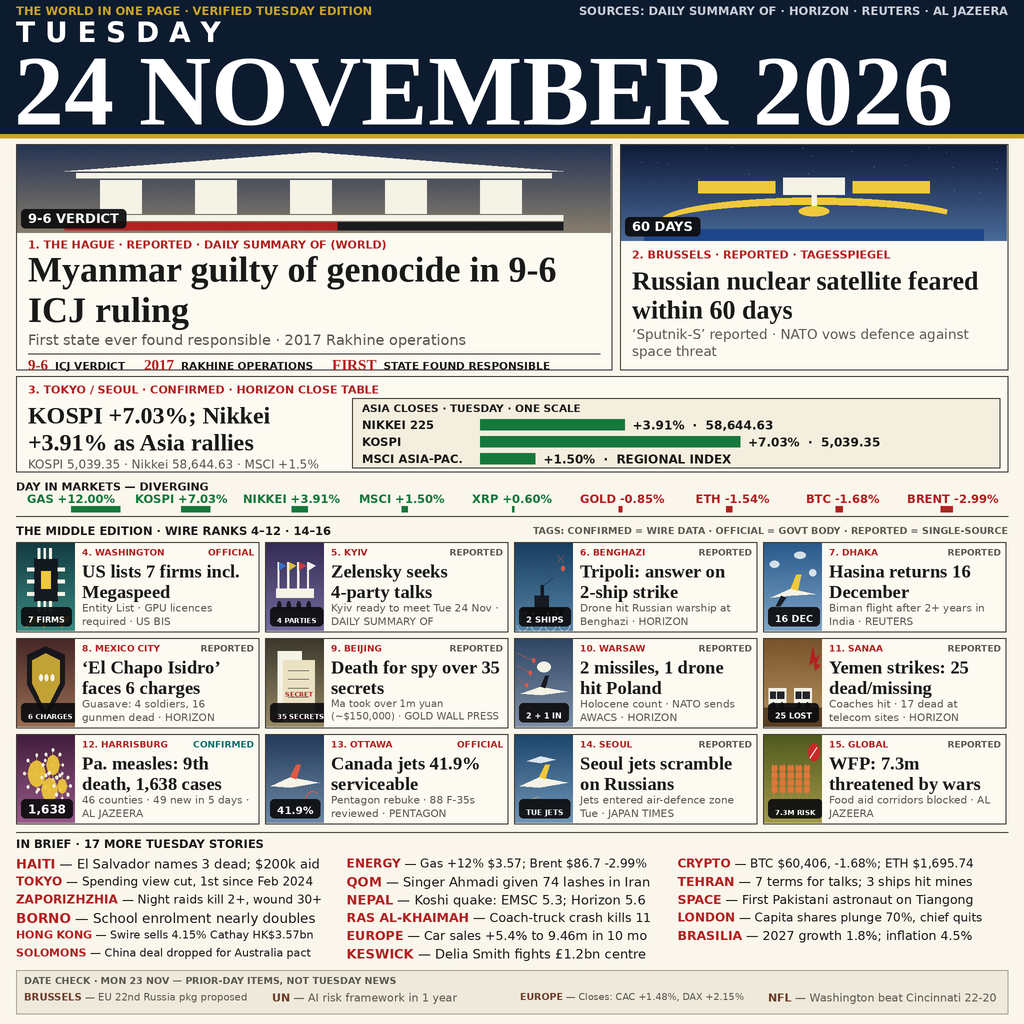
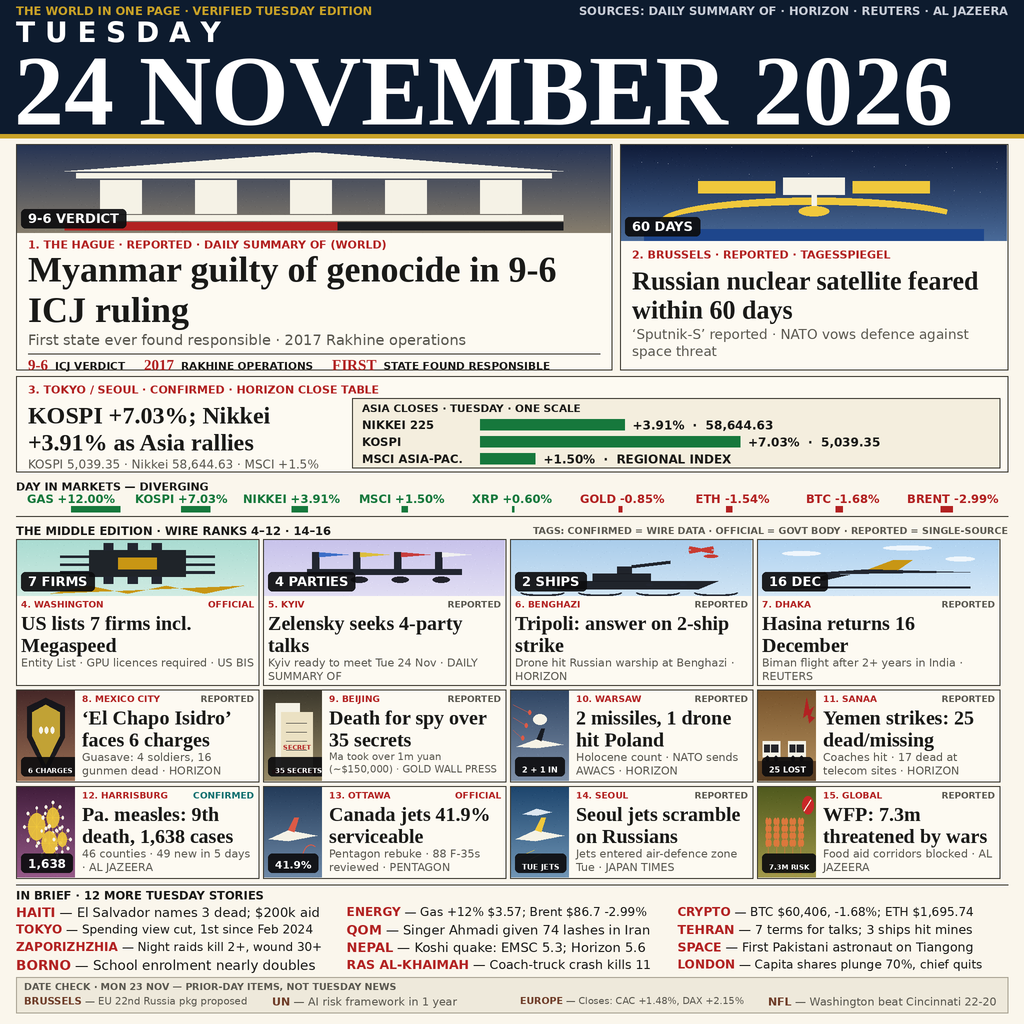
news-image-20261124 slot 2: fewer briefs, top-mounted panels on hero row

Changed region(s): [[0.0, 0.5, 1.0, 1.0]]

diff --git a/renderer.py b/renderer.py
@@ -1,8 +1,11 @@
 #!/usr/bin/env python3
-"""Fresh renderer for news-image-20261124 candidate-v2.
-Design base: Gemini-experiment composition (broadsheet masthead, single
-hero lead + stat strip, chart furniture, 3-col middle, briefs strip),
-plus a code-drawn pictorial panel on every headlined card.
+"""Renderer for news-image-20261124 candidate-slot2 (SLOT 2).
+Evolves candidate-v2's composition under Dika's fewer-briefs scope
+(25 Nov): briefs 17 -> 12, and the freed space funds the winners'
+top-mounted wide panels on the hero-adjacent compact row (cards 4-7,
+using candidate-v3's light-ground wide scene redraws) plus a 20px
+floor on every compact headline. Everything above the grid and all
+census figures are candidate-v2's, unchanged.
 All copy from data.json (census stories-final.json). Renders at 2x,
 downscales to 1024x1024."""
 import json, os, random
@@ -80,10 +83,30 @@ PALETTES = {
     "wheat":     ((80, 90, 30), (230, 205, 110), (220, 120, 60)),
 }
 
-def panel(scene, label, w, h, seed):
+# V3: light-ground palettes for the compact scenes, redrawn as wide
+# horizontal compositions (pastel ground, dark silhouettes, scene accent)
+LIGHT_PALETTES = {
+    "chip":      ((170, 220, 210), (240, 248, 240), (200, 150, 20)),
+    "table":     ((200, 195, 235), (245, 243, 250), (200, 60, 50)),
+    "ship":      ((170, 205, 235), (240, 248, 252), (200, 60, 50)),
+    "plane":     ((175, 210, 240), (242, 248, 252), (200, 150, 20)),
+    "shield":    ((235, 205, 175), (250, 242, 230), (178, 34, 34)),
+    "file":      ((228, 218, 180), (250, 246, 230), (178, 34, 34)),
+    "awacs":     ((195, 212, 232), (246, 248, 250), (200, 60, 50)),
+    "desert":    ((240, 214, 155), (252, 240, 215), (178, 34, 34)),
+    "virus":     ((232, 190, 222), (250, 240, 248), (150, 40, 130)),
+    "jet":       ((185, 208, 235), (244, 248, 252), (200, 60, 50)),
+    "jets":      ((180, 215, 242), (244, 250, 252), (200, 150, 20)),
+    "wheat":     ((215, 228, 150), (248, 246, 220), (190, 100, 30)),
+}
+
+def panel(scene, label, w, h, seed, wide=False):
     """Render one scene into its own panel-sized image (art containment)."""
     pw, ph = int(w * S), int(h * S)
-    top, mid, acc = PALETTES[scene]
+    if wide:
+        top, mid, acc = LIGHT_PALETTES[scene]
+    else:
+        top, mid, acc = PALETTES[scene]
     img = Image.new("RGB", (pw, ph), top)
     d = ImageDraw.Draw(img, "RGBA")
     # vertical gradient top -> mid blend
@@ -105,7 +128,10 @@ def panel(scene, label, w, h, seed):
     def E(x0, y0, x1, y1, fill, **kw): d.ellipse([x0*u, y0*v, x1*u, y1*v], fill=fill, **kw)
     def P(pts, fill, **kw): d.polygon([(x*u, y*v) for x, y in pts], fill=fill, **kw)
     def L(pts, fill, wd=2): d.line([(x*u, y*v) for x, y in pts], fill=fill, width=max(1, int(wd*u/2)))
-    dark = (18, 20, 26, 235); light = (245, 242, 230, 255)
+    dark = (18, 20, 26, 235)
+    # wide/light mode: scene shapes drawn in `light` become dark
+    # silhouettes on the pastel ground (winners' grammar)
+    light = (34, 38, 48, 255) if wide else (245, 242, 230, 255)
     if scene == "court":  # Peace-Palace-like columns + pediment + split verdict bar
         P([(8, 30), (50, 8), (92, 30)], light)
         R(10, 32, 90, 38, light)
@@ -228,8 +254,8 @@ def build():
     def card_box(x, y, w, h):
         d.rectangle([X(x), X(y), X(x + w), X(y + h)], fill=PAPER, outline=RULE, width=S)
 
-    def paste_panel(scene, label, x, y, w, h, seed):
-        p = panel(scene, label, w, h, seed)
+    def paste_panel(scene, label, x, y, w, h, seed, wide=False):
+        p = panel(scene, label, w, h, seed, wide=wide)
         img.paste(p, (int(X(x)), int(X(y))))
 
     # HERO (rank 1) + hero2 (rank 2)
@@ -316,51 +342,83 @@ def build():
     d.text((X(16), X(gy)), "THE MIDDLE EDITION · WIRE RANKS 4–12 · 14–16", font=F(SANS_B, 11.5), fill=INK)
     leg = "TAGS: CONFIRMED = WIRE DATA · OFFICIAL = GOVT BODY · REPORTED = SINGLE-SOURCE"
     d.text((W - X(16) - tw(d, leg, F(SANS_B, 9.5)), X(gy + 1)), leg, font=F(SANS_B, 9.5), fill=GREY)
-    gy += 18
-    cw, chh, gap = 243, 90, 6
+    gy += 15  # trim inside grid zone: header block 18 -> 15 (grid top 539)
+    cw, gap = 243, 4  # trim: row/col gap 6 -> 4
+    PANEL_H = 56  # hard floor for a top-mounted panel
+    KOFF = 17     # kicker at text-block +4, headline at +17 (v2: +5/+19)
+    # SLOT-2 GEOMETRY (Dika's fewer-briefs scope, 25 Nov): row 1
+    # (cards 4-7, hero-adjacent) gets the winners' LIGHT-ground,
+    # FULL-WIDTH TOP-MOUNTED panels (241x56, v3 wide scene redraws);
+    # rows 2-3 keep v2's side panels. ALL compact headlines sit at
+    # the hard 20px floor (v2 shipped 18.5px); every sub prints IN
+    # FULL, shrunk 11 -> 8.5 until it fits <= 2 lines. Funded by the
+    # briefs cut (17 -> 12) plus spacing trims inside this zone only;
+    # arithmetic in measure-slot2.py / measure-slot2b.py.
+    # Pass 1: measure every card at those floors (v2 fit/wrap logic).
+    plan = []
+    for idx, c in enumerate(DATA["compacts"]):
+        top = idx < 4
+        inner = (cw - 10) if top else (cw - 74)
+        pxh, linesh = fit_wrap(d, c["headline"], SERIF_B, 20, 20, inner * S, 3)
+        assert pxh >= 20 and len(linesh) <= 3, f"card {c['n']} headline breaks 20px floor"
+        report["headline_min_px"] = min(report["headline_min_px"], pxh)
+        sub_px = 11.0
+        while sub_px > 8.5:
+            slines = wrap(d, c["sub_full"], F(SANS, sub_px), inner * S)
+            if len(slines) <= 2:
+                break
+            sub_px -= 0.5
+        slines = wrap(d, c["sub_full"], F(SANS, sub_px), inner * S)
+        assert len(slines) <= 2, f"card {c['n']} sub does not fit in full in 2 lines"
+        if top:
+            need = PANEL_H + KOFF + len(linesh) * pxh * 1.1 + len(slines) * sub_px * 1.25 + 2
+        else:
+            need = KOFF + len(linesh) * pxh * 1.1 + len(slines) * sub_px * 1.25 + 4
+        plan.append((pxh, linesh, sub_px, slines, need))
+    row_h = [max(plan[r * 4 + i][4] for i in range(4)) for r in range(3)]
+    report["slot2_row_h"] = [round(v, 1) for v in row_h]
+    report["slot2_grid_h"] = sum(row_h) + 2 * gap
+    # Pass 2: draw.
+    yy_grid = gy
     for idx, c in enumerate(DATA["compacts"]):
         r, col = divmod(idx, 4)
-        x = 16 + col * (cw + gap); y = gy + r * (chh + gap)
+        x = 16 + col * (cw + gap); y = yy_grid + sum(row_h[:r]) + r * gap
+        chh = row_h[r]
+        pxh, linesh, sub_px, slines, need = plan[idx]
         card_box(x, y, cw, chh)
-        paste_panel(c["scene"], c["label"], x + 1, y + 1, 58, chh - 2, 100 + idx)
-        tx = x + 66; tw_max = cw - 74
-        # kicker/tag clearance: shrink both until a real gap (>=10px) remains
+        if idx < 4:  # top-mounted: light wide panel, text full width beneath
+            paste_panel(c["scene"], c["label"], x + 1, y + 1, cw - 2, PANEL_H, 100 + idx, wide=True)
+            tx = x + 5; tw_max = cw - 10; base = y + PANEL_H
+        else:        # side panel (v2 geometry, scenes unchanged)
+            paste_panel(c["scene"], c["label"], x + 1, y + 1, 58, chh - 2, 100 + idx)
+            tx = x + 66; tw_max = cw - 74; base = y
         kpx, tpx = 9.0, 9.0
         ktxt = f"{c['n']}. {c['place']}"
         while kpx > 7 and tw(d, ktxt, F(SANS_B, kpx)) / S + tw(d, c["tag"], F(SANS_B, tpx)) / S > tw_max - 10:
             kpx -= 0.5; tpx = max(7.5, tpx - 0.25)
         assert tw(d, ktxt, F(SANS_B, kpx)) / S + tw(d, c["tag"], F(SANS_B, tpx)) / S <= tw_max - 10, f"card {c['n']} kicker/tag collision"
-        kicker(tx, y + 5, ktxt, px=kpx)
+        kicker(tx, base + 4, ktxt, px=kpx)
         tf = F(SANS_B, tpx)
-        d.text((X(x + cw - 5) - tw(d, c["tag"], tf), X(y + 5)), c["tag"], font=tf, fill=TEAL if c["tag"]=="CONFIRMED" else (GREY if c["tag"]=="REPORTED" else RED))
-        pxh, linesh = fit_wrap(d, c["headline"], SERIF_B, 18.5, 13, tw_max * S, 3)
-        report["headline_min_px"] = min(report["headline_min_px"], pxh)
-        yy = y + 19
+        d.text((X(x + cw - 5) - tw(d, c["tag"], tf), X(base + 4)), c["tag"], font=tf, fill=TEAL if c["tag"]=="CONFIRMED" else (GREY if c["tag"]=="REPORTED" else RED))
+        yy = base + KOFF
         for ln in linesh:
             d.text((X(tx), X(yy)), ln, font=F(SERIF_B, pxh), fill=INK); yy += pxh * 1.1
-        # sub printed IN FULL (source included): shrink until every line fits
-        sub_px = 11.0
-        avail = (y + chh - 4) - yy
-        while sub_px > 8.5:
-            slines = wrap(d, c["sub_full"], F(SANS, sub_px), tw_max * S)
-            if len(slines) * sub_px * 1.25 <= avail:
-                break
-            sub_px -= 0.5
-        slines = wrap(d, c["sub_full"], F(SANS, sub_px), tw_max * S)
-        assert len(slines) * sub_px * 1.25 <= avail + 0.01, f"card {c['n']} sub does not fit in full"
         for ln in slines:
             d.text((X(tx), X(yy)), ln, font=F(SANS, sub_px), fill=GREY); yy += sub_px * 1.25
-        assert yy <= y + chh - 2, f"card {c['n']} overflow"
+        assert yy <= y + chh - 2 + 0.01, f"card {c['n']} overflow"
+    gy = yy_grid + report["slot2_grid_h"]  # grid bottom, for the briefs strip
 
-    # BRIEFS STRIP: Tuesday briefs only (17); Monday items live in DATE CHECK
-    by = gy + 3 * chh + 2 * gap + 8
+    # BRIEFS STRIP: Tuesday briefs only (12 after Dika's slot-2 cut);
+    # Monday items live in DATE CHECK. Trims inside this zone: gap
+    # 8 -> 6, header block 24 -> 20, pitch 18 -> 17.5, bottom pad 16 -> 14.
+    by = gy + 6
     d.line([X(16), X(by), X(1008), X(by)], fill=RULE, width=S)
-    d.text((X(16), X(by + 5)), f"IN BRIEF · {len(DATA['briefs'])} MORE TUESDAY STORIES", font=F(SANS_B, 11.5), fill=INK)
-    by += 24
+    d.text((X(16), X(by + 4)), f"IN BRIEF · {len(DATA['briefs'])} MORE TUESDAY STORIES", font=F(SANS_B, 11.5), fill=INK)
+    by += 20
     colw = 992 / 3; GUT = 24  # real gutter: no brief may enter the last 24px of its column
     for i, (place, txt) in enumerate(DATA["briefs"]):
         r, col = divmod(i, 3)
-        x = 16 + col * colw; y = by + r * 18
+        x = 16 + col * colw; y = by + r * 17.5
         pxb = 17.0
         while pxb > 11 and tw(d, place, F(SANS_B, pxb)) + tw(d, f" — {txt}", F(SANS, pxb)) > (colw - GUT) * S:
             pxb -= 0.5
@@ -370,15 +428,16 @@ def build():
         wp = tw(d, place, F(SANS_B, pxb))
         d.text((X(x) + wp, X(y)), f" — {txt}", font=F(SANS, pxb), fill=INK)
     nrows = (len(DATA["briefs"]) + 2) // 3
-    report["briefs_bottom"] = by + (nrows - 1) * 18 + 16
+    report["briefs_bottom"] = by + (nrows - 1) * 17.5 + 14
 
-    # DATE CHECK strip: the 4 Monday items, quiet muted band, real-date label
-    dcy = report["briefs_bottom"] + 8
-    d.rectangle([X(16), X(dcy), X(1008), X(dcy + 44)], fill=(238, 233, 219), outline=(170, 164, 148), width=S)
-    d.text((X(24), X(dcy + 5)), "DATE CHECK · MON 23 NOV — PRIOR-DAY ITEMS, NOT TUESDAY NEWS", font=F(SANS_B, 9.5), fill=GREY)
+    # DATE CHECK strip: the 4 Monday items, quiet muted band, real-date
+    # label; band trimmed 44 -> 36 (label +4, items +18, same type sizes)
+    dcy = report["briefs_bottom"] + 6
+    d.rectangle([X(16), X(dcy), X(1008), X(dcy + 36)], fill=(238, 233, 219), outline=(170, 164, 148), width=S)
+    d.text((X(24), X(dcy + 4)), "DATE CHECK · MON 23 NOV — PRIOR-DAY ITEMS, NOT TUESDAY NEWS", font=F(SANS_B, 9.5), fill=GREY)
     dccolw = 992 / 4
     for i, (place, txt) in enumerate(DATA["datecheck"]):
-        x = 16 + i * dccolw; y = dcy + 21
+        x = 16 + i * dccolw; y = dcy + 18
         pxd = 11.0
         while pxd > 8.5 and tw(d, place, F(SANS_B, pxd)) + tw(d, f" — {txt}", F(SANS, pxd)) > (dccolw - 16) * S:
             pxd -= 0.5
@@ -386,7 +445,7 @@ def build():
         d.text((X(x + 8), X(y)), place, font=F(SANS_B, pxd), fill=(110, 60, 40))
         wp = tw(d, place, F(SANS_B, pxd))
         d.text((X(x + 8) + wp, X(y)), f" — {txt}", font=F(SANS, pxd), fill=GREY)
-    report["datecheck_bottom"] = dcy + 44
+    report["datecheck_bottom"] = dcy + 36
     report["page_bottom"] = report["datecheck_bottom"]
     assert report["page_bottom"] <= 1014, report["page_bottom"]  # >=10px clear of canvas edge
 
